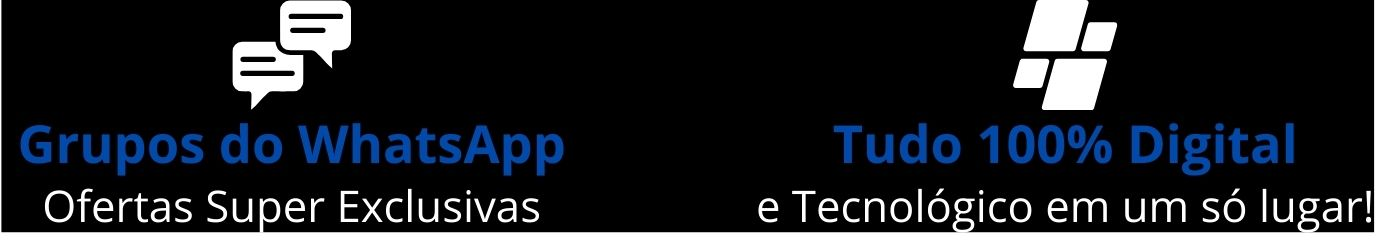
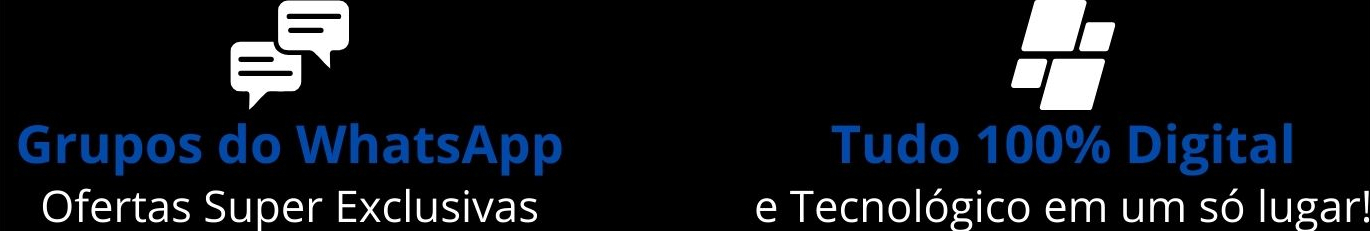
Atualizar

Changed region(s): [[0.0, 0.0, 1.0, 1.0], [0.1533, 0.0303, 0.2759, 0.3333], [0.1533, 0.3333, 0.2453, 0.4545]]

diff --git a/páginas-html/ebook-comunicacao-oral.html b/páginas-html/ebook-comunicacao-oral.html
@@ -214,7 +214,7 @@
                 
                 <span class="material-symbols-outlined" onclick="eventoModalAparente()">account_circle</span>
             </div>
-            <img src="../recursos/imagens/icone-digitalltech-mobile.jpg" alt="icone-digitalltech-mobile" onclick="eventoEmpresa()">
+            <img src="../recursos/imagens/icone-digitalltech-mobile.jpg" alt="icone-digitalltech-mobile" onclick="eventoEmpresa()" id="icone-mobile">
             <h1 id="titulo-digitalltech" class="texto-padrao-dois"><span id="configurar-cor-especifica" class="texto-padrao-dois">Digitall</span>Tech</h1>
         </nav>
     </header>
@@ -400,16 +400,16 @@
 
     <!-- CARROSSEL - MOBILE -->
 
-    <div class="container-carrossel-imagem-dois hidden-dois">
+    <div class="container-carrossel-imagem-dois hidden-dois estilo-fundo-modo-dark-dois">
         <div id="container-imagem-dois">
-            <img src="../recursos/imagens/card-mensagem-um.jpg" alt="mensagem-card" class="imagens-mensagem-card">
-            <img src="../recursos/imagens/card-mensagem-dois.jpg" alt="mensagem-card" class="imagens-mensagem-card">
-            <img src="../recursos/imagens/card-mensagem-tres.jpg" alt="mensagem-card" class="imagens-mensagem-card">
+            <img src="../recursos/imagens/card-mensagem-um.jpg" alt="mensagem-card" class="imagens-mensagem-card" id="imagem-carrossel-um">
+            <img src="../recursos/imagens/card-mensagem-dois.jpg" alt="mensagem-card" class="imagens-mensagem-card" id="imagem-carrossel-dois">
+            <img src="../recursos/imagens/card-mensagem-tres.jpg" alt="mensagem-card" class="imagens-mensagem-card" id="imagem-carrossel-tres">
         </div>
         <div id="configurar-botoes-span-dois">
-            <span id="config-espan-um"></span>
-            <span id="config-espan-dois"></span>
-            <span id="config-espan-tres"></span>
+            <span class="configurar-fundo-branco" id="config-espan-um"></span>
+            <span class="configurar-fundo-branco" id="config-espan-dois"></span>
+            <span class="configurar-fundo-branco" id="config-espan-tres"></span>
         </div>
     </div>
 

diff --git a/classes-javascript/configuracao-landpage.js b/classes-javascript/configuracao-landpage.js
@@ -30,6 +30,11 @@ function eventoModoDark(){
         window.document.querySelectorAll('.estilo-fundo-modo-dark-um').forEach((elementosDark) => {
             elementosDark.style.backgroundColor = '#303030'
         })
+
+        window.document.querySelectorAll('.estilo-fundo-modo-dark-dois').forEach((elementosDark) => {
+            elementosDark.style.backgroundColor = 'black'
+        })
+
         window.document.getElementById('estilo-borda-dark-um').style.borderColor = '#7F7F7F'
         window.document.getElementById('estilo-borda-dark-dois').style.borderColor = '#7F7F7F'
 
@@ -45,6 +50,10 @@ function eventoModoDark(){
             elementos.style.color = '#ffffff'
         })
 
+        window.document.querySelectorAll('.configurar-fundo-branco').forEach((elementos) =>{
+            elementos.style.backgroundColor = '#000000ffff'
+        })
+
         window.document.querySelectorAll('.estilo-botao-dark-um').forEach((botoes) =>{
             botoes.style.backgroundColor = '#303030'
             botoes.style.color = '#ffffff'
@@ -55,6 +64,11 @@ function eventoModoDark(){
             botoes.style.borderColor = '#ffffff'
             botoes.style.color = '#ffffff'
         })
+
+        window.document.getElementById('icone-mobile').src = '../recursos/imagens/icone-digitalltech-mobile-dark.jpg'
+        window.document.getElementById('imagem-carrossel-um').src = '../recursos/imagens/card-mensagem-um-dark.jpg'
+        window.document.getElementById('imagem-carrossel-dois').src = '../recursos/imagens/card-mensagem-dois-dark.jpg'
+        window.document.getElementById('imagem-carrossel-tres').src = '../recursos/imagens/card-mensagem-tres-dark.jpg'
         
         // Site Modo Escuro (Mobile):
 
